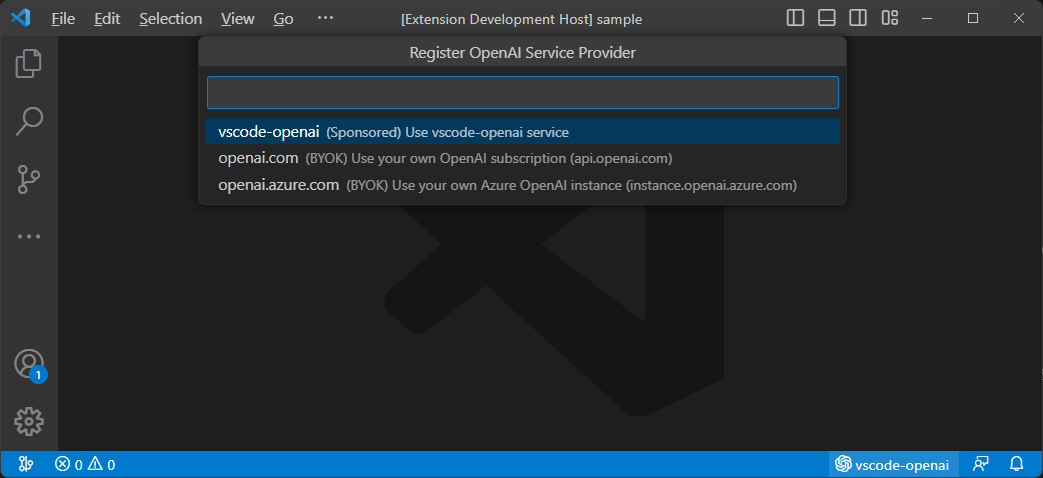
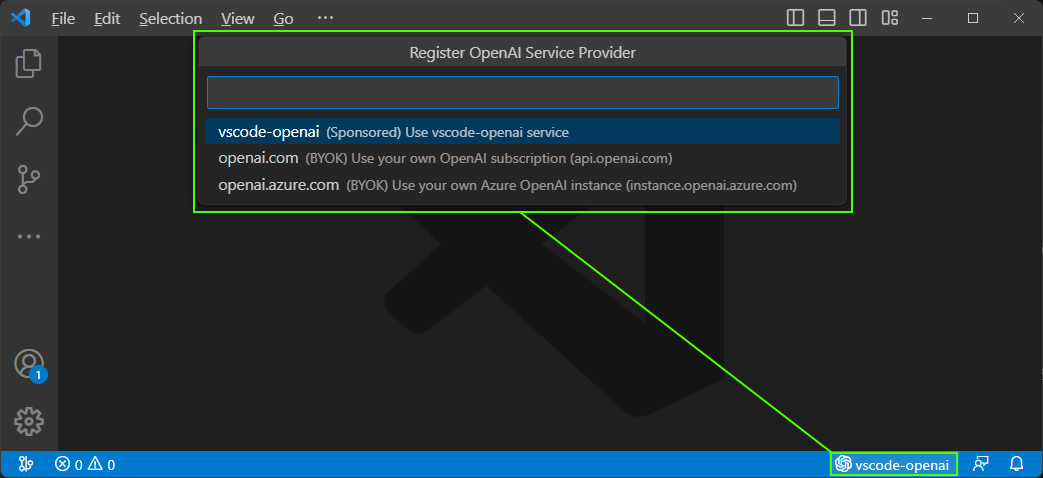
updating readme to clarify how to get started

diff --git a/src/contexts/constants.ts b/src/contexts/constants.ts
@@ -1,6 +1,5 @@
 export const VSCODE_OPENAI_REGISTER = {
   SERVICE_COMMAND_ID: 'vscode-openai.register.openaiService',
-  APIKEY_COMMAND_ID: 'vscode-openai.register.apikey',
 }
 
 export const VSCODE_OPENAI_PROMPT = {

diff --git a/README.md b/README.md
@@ -15,7 +15,9 @@ If you're having trouble connecting to your own OpenAI service, please check out
 
 ## Setup
 
-The quick pick is a helpful feature that lets you easily configure the instance type for vscode-openai. You can choose from sponsored, native, or azure-openai instances that best suit your needs. It saves time and hassle by guiding you through each step of the process and customizing your settings. Once configured, you can use openai features directly within vscode without interrupting your workflow.
+The quick pick feature in vscode-openai is a useful tool that simplifies the process of configuring service providers. You have the option to select from sponsored, native, or azure-openai instances based on your requirements. This feature saves you time and effort by providing step-by-step guidance and personalized settings. Once configured, you can seamlessly use openai features within vscode without any disruption to your workflow.
+
+Note: To activate the setup, you can either use the command **"vscode-openai.register.openaiService"** or access it through the **vscode-openai StatusBar** located at the bottom left of vscode.
 
 ![vscode-openai-serviceproviders.png](images/vscode-openai-serviceproviders.png)
 
